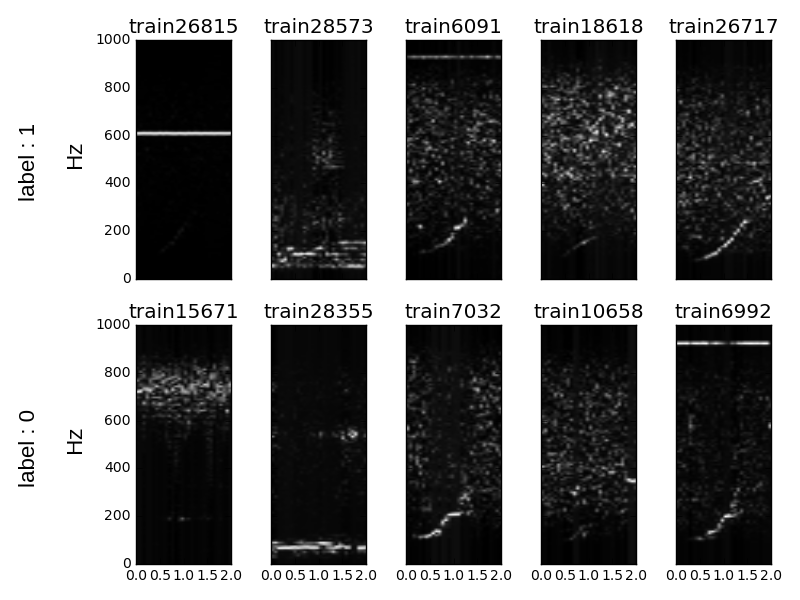
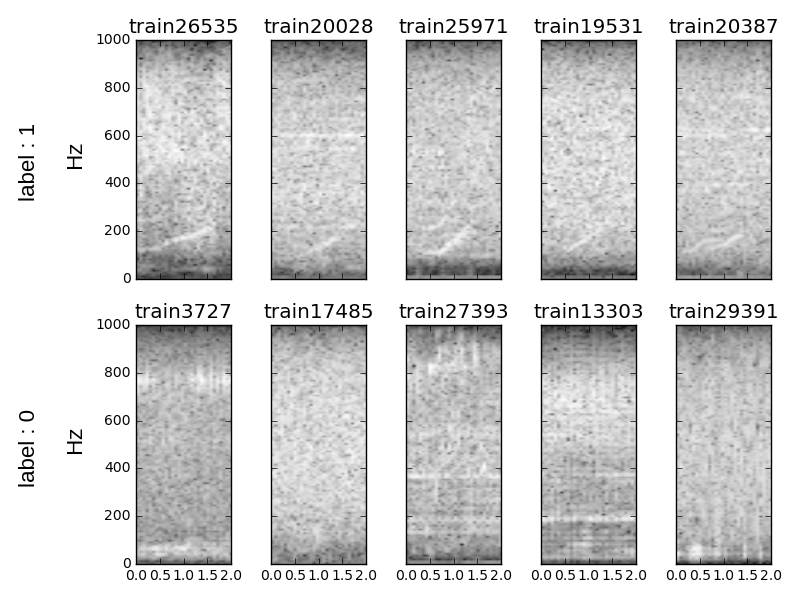
27-10-16

diff --git a/capstone/capstone_report_mabelvj.tex b/capstone/capstone_report_mabelvj.tex
@@ -182,8 +182,8 @@ Questions to ask yourself when writing this section: - \emph{Have you visualized
 \end{comment}
 The audio is recorded after the buoys auto-detect the characteristic up-call, what biases the dataset to that kind of calls. Thus, it makes sense to detect only the up-call, which is the most characteristic and most frequently emitted call (details on the deployment of the buoys and how the recordings are made in \cite{McDonald2002}). 
 
-The up-call (see figure \ref{img:upcall}) has a bandwidth of about 250 Hz, fact that will help to reduce information processed to that range of frequencies. In figure \ref{img:samples} samples corresponding to right-whale up-call show the that the energy of the signal is below 250Hz and they exhibit a clear pattern.
-In the second row, corresponding to negative identifications (label=0) this pattern is not present. However, some samples from from other whale species or corresponding to right-whale making other calls are included in the label 0. This could be the case of the sample from train6776 in figure \ref{img:samples}.
+In figure \ref{img:samples}, samples corresponding to right-whale up-call (label = 1) show the that the energy of the signal is below 250Hz (see figure \ref{img:upcall}) and they exhibit a clear pattern. This fact will help to reduce information processed to that range of frequencies. 
+In the second row, corresponding to negative identifications (label = 0) this pattern is not present. However, some samples from from other whale species or corresponding to right-whale making other calls are included in the label 0. This could be the case of the sample from train6776 in figure \ref{img:samples}.
 
 
 \begin{figure}[htpb!]
@@ -191,16 +191,33 @@ In the second row, corresponding to negative identifications (label=0) this patt
 \includegraphics[width= \textwidth]{./images/2_samples}
 \caption{Samples for right whale up-call (label 1) and no-right-whale up-call (label 0).  \label{img:samples}}
 \end{figure} 
-Recordings have a duration of 1.8 seconds and a sampling rate of 2000Hz. The raw spectrograms of the recordings result in images of 129x23 pixels.
 
-Two problems arise from this: the excess of redundant information in frequencies not important for the detection of the up-call and the limitation in terms of the image of being processesd by the network.
+The processing of the images will consist in the usual mean subtraction and normalization (division by standard deviation). The result of this process applied to \ref{img:samples} is presented in \ref{img:samples_unprocessed}.
 
-In order to solve the first problem, the frequency range will be limited 0-250 Hz, what will result in images of size 33x23ps. Still, this is not good for a ConvNet with lots of convolutions and pooling. It is necessary to resize the image and a good number is that multiple of 2. Hence, I will choose images to be 32x32 px and will obtain additional pixels using interpolation.
+\begin{figure}[htpb!]
+\centering
+\includegraphics[width= \textwidth]{./images/2_samples_unprocessed}
+\caption{ Samples after mean subtraction and division by standard deviation for right whale up-call (label 1) and no-right-whale up-call (label 0).  \label{img:samples_unprocessed}}
+\end{figure} 
+
+However, images are not clear enough and energy where up-calls are contained is very low. In order to make them more visible, images in \ref{img:samples} are first processed applying log10 and then normalized subtracting mean and dividing by standard deviation.
 
 \begin{figure}[htpb!]
 \centering
 \includegraphics[width= \textwidth]{./images/2_samples_processed}
-\caption{Processed samples after mean subtraction and division by standard deviation for right whale up-call (label 1) and no-right-whale up-call (label 0).  \label{img:samples_processed}}
+\caption{Processed samples after mean subtraction and normalization for right whale up-call (label 1) and no-right-whale up-call (label 0).  \label{img:samples_processed}}
+\end{figure} 
+
+Recordings have a duration of 1.8 seconds and a sampling rate of 2000Hz. The raw spectrogram of the recordings result in images of 129x23 pixels.
+
+Two problems arise from this: the excess of redundant information in frequencies not important for the detection of the up-call and the limitation in terms of the image of being processed by the network.
+
+In order to solve the first problem, the frequency range will be limited 0-250 Hz, what will result in images of size 33x23 px. Still, this is not good for a ConvNet with lots of convolutions and pooling. It is necessary to resize the image and a good number is multiple of 2. Hence, I will choose images to be 32x32 px and will obtain additional pixels using interpolation.
+
+\begin{figure}[htpb!]
+\centering
+\includegraphics[width= \textwidth]{./images/2_samples_cropped}
+\caption{Samples reduced to 32x32 pixels after log10 and mean subtraction and normalization for right whale up-call (label 1) and no-right-whale up-call (label 0).  \label{img:samples_processed}}
 \end{figure} 
 
 \subsubsection{Algorithms and
@@ -212,7 +229,27 @@ chosen?}
 \end{comment}
 In order to perform the prediction I will try to implement well-known and widely-implemented models of ConvNets.
 
-One can be the LeNet-5, used for handwritten and machine-printed character recognition. Figure \ref{img:lenet5} shows the structure of the network, composed of 2 convolutional layers, 2 fully connected layers and 2 subsampling or pooling layers. The layers follow the sequence: INPUT -> CONV -> RELU -> SUBS -> CONV -> RELU -> SUBS -> FC -> RELU -> FC, for INPUT, CONV, RELU, SUBS, FC meaning respectively the Input, Convolutional, RELU, Subsampling (or max pooling) and Fully Connected layer.
+Convolutional Neural Networks (ConvNets) are a type of Neural Networks (NNs) that make the assumption that inputs are images. This allows to encode certain properties into the architecture that make the forward function more efficient to implement and vastly reduce the amount of parameters in the network \ref{cs231convnets}.
+ConvNets, like other NNs, are made up of layers. These layers (called hidden layers) transform input 3D volumes to output 3D volumes with some differentiable function that may or may not have parameters\ref{cs231convnets}. This is an interesting property of ConvNets: layers have neurons arranged in 3 dimensions (width, height and depth) (see figure \ref{img:cnn}). %Each hidden layer is made up of neurons, where each neuron is fully connected to all neurons in the previous layer, and where neurons in a single layer function completely independently and do not share any connections. The last fully-connected layer is called the “output layer” and in classification settings it represents the class scores. 
+
+There are three main types of layers that are used to build ConvNets: % Convolutional Layer, Pooling Layer, and Fully-Connected Layer .
+\begin{itemize}
+	\item Convolutional Layer (CONV): computes the output of neurons connected to local regions of the input, performing the dot product between their weight and a small region that are connected to. If the input is 3D (i.e. an image with RGB colors) this layer will also be 3-dimensional. Four hyperparameters control the size of the output volume: the depth, filter size, stride and zero-padding. Depth (D) is related to the number of filters used in the layer, the filter or patch have dimensions (F) (i.e. 2x2) and stride (S) is referred to the displacement of the filter. The amount Zero-padding (P), which allows to control the spatial size of outputs.
+	\item Pooling Layer (POOL) (or Subsampling Layer): perform downsampling operation along spatial dimensions. Can be max-pooling (taking the maximum of a region), average-pooling (taking the average of a region) or other types of results from applying a function to a patch in the region. Have two main hyperparameters: the spatial extent of the filter or patch where pooling is applied (F) and the stride (S) of this filter.
+	\item Fully-Connected Layer (FC): the same as in NNs
+\end{itemize}
+
+Usually a CONV layer is followed by a RELU layer, which perform an elmentwise activation function (i.e. max(0,x),logistic function, tanh).
+
+\begin{figure}[htpb!]
+\centering
+\includegraphics[width= 0.5\textwidth]{images/cnn}
+\caption{ConvNet structure \ref{cs231convnets}\label{img:cnn}}
+\end{figure}
+
+
+
+LeNet is one of the first successful applications of Convolutional Networks were developed by Yann LeCun in 1990’s. One of the versions of LeNet is LeNet-5, used for handwritten and machine-printed character recognition. Figure \ref{img:lenet5} shows the structure of the network, composed of 2 convolutional layers, 2 fully connected layers and 2 subsampling or pooling layers. The layers follow the sequence: INPUT -> CONV -> RELU -> SUBS -> CONV -> RELU -> SUBS -> FC -> RELU -> FC, for INPUT, CONV, RELU, SUBS, FC meaning respectively the Input, Convolutional, RELU, Subsampling (or max pooling) and Fully Connected layer.
 %\pagebreak
 \begin{figure}[htpb!]
 \centering
@@ -220,14 +257,14 @@ One can be the LeNet-5, used for handwritten and machine-printed character recog
 \caption{LeNet-5 structure \cite{Lecun98} \label{img:lenet5}}
 \end{figure}
 
-Other more complex option is the one by Krizhevsky \cite{Krizhevsky12}. Figure \ref{img:imagenet12} shows the structure of the network, composed of 5 convolutional layers, 3 fully connected layers and 3 subsampling or pooling layers. The layers follow the sequence: INPUT -> CONV -> RELU -> SUBS -> CONV -> RELU -> SUBS -> CONV -> RELU -> CONV -> RELU -> SUBS -> FC -> RELU -> FC, for INPUT, CONV, RELU, SUBS, FC meaning respectively the Input, Convolutional, RELU, Subsampling (or max pooling) and Fully Connected layer.
+Other more complex ConvNet is AlexNet, developed by Alex Krizhevsky et al. \cite{Krizhevsky12}. The AlexNet was submitted to the ImageNet ILSVRC challenge in 2012 and significantly outperformed the second runner-up (top 5 error of 16\% compared to runner-up with 26\% error). It has a very similar architecture to LeNet, but it is  deeper, bigger, and features Convolutional Layers stacked on top of each other (previously it was common to only have a single CONV layer always immediately followed by a POOL layer)\ref{cs231convnets}. Figure \ref{img:imagenet12} shows the structure of the network, composed of 5 convolutional layers, 3 fully connected layers and 3 subsampling or pooling layers. The layers follow the sequence: INPUT -> CONV -> RELU -> SUBS -> CONV -> RELU -> SUBS -> CONV -> RELU -> CONV -> RELU -> SUBS -> FC -> RELU -> FC, for INPUT, CONV, RELU, SUBS, FC meaning respectively the Input, Convolutional, RELU, Subsampling (or max pooling) and Fully Connected layer .% Cambiar, LITERAL!
+
 
 \begin{figure}[htpb!]
 \centering
 \includegraphics[width= 0.95\textwidth]{images/imagenet12}
 \caption{Network structure by Krizhevsky \cite{Krizhevsky12} \label{img:imagenet12}}
 \end{figure}
-
 
 Some parameters need adjustment to adequate the network to this work, like the size of the patch and stride of the convolutional and pooling layers, and also the depth of each convolutional layer. This issue will be discussed in later sections.
 
@@ -236,7 +273,7 @@ Some parameters need adjustment to adequate the network to this work, like the s
 In this section, you will need to provide a clearly defined benchmark result or threshold for comparing across performances obtained by your solution. The reasoning behind the benchmark (in the case where it is not an established result) should be discussed. Questions to ask yourself when writing this section: - \emph{Has some result or value been provided that acts as a benchmark for measuring performance?} - \emph{Is it clear how this result or value was obtained (whether by data or by hypothesis)?}
 \end{comment}
 
-I will try to compare the performance of the most popular ConvNets (i.e. LeNet-5 proposed by Lecun \cite{Lecun98} or the winner of the 2010 and 2012 \imagenet \, proposed by Krizhevsky \cite{Krizhevsky12}) with the performance of the winning model of the competition which is based on Gradient Boosting (SluiceBox: \href{https://github.com/nmkridler/moby}{Github}) and the Daniel Nouri's model based on Krizhevsky's 2012 ILSVRC ConvNet model \cite{Krizhevsky12} (\href{https://speakerdeck.com/dnouri/practical-deep-neural-nets-for-detecting-marine-mammals/}{source}), which first inspired this work.
+I will try to compare the performance of popular ConvNets (i.e. LeNet-5 proposed by Lecun \cite{Lecun98} or the winner of the 2010 and 2012 \imagenet \, proposed by Krizhevsky \cite{Krizhevsky12}) with the performance of the winning model of the competition which is based on Gradient Boosting (SluiceBox: \href{https://github.com/nmkridler/moby}{Github}) and the Daniel Nouri's model based on Krizhevsky's 2012 ILSVRC ConvNet model \cite{Krizhevsky12} (\href{https://speakerdeck.com/dnouri/practical-deep-neural-nets-for-detecting-marine-mammals/}{source}), which first inspired this work.
 
 The Area Under the Curve (AUC) (see the Evaluation metrics section\ref{evaluation-metrics}) of these models in the public leaderboard was:
 \begin{itemize}
